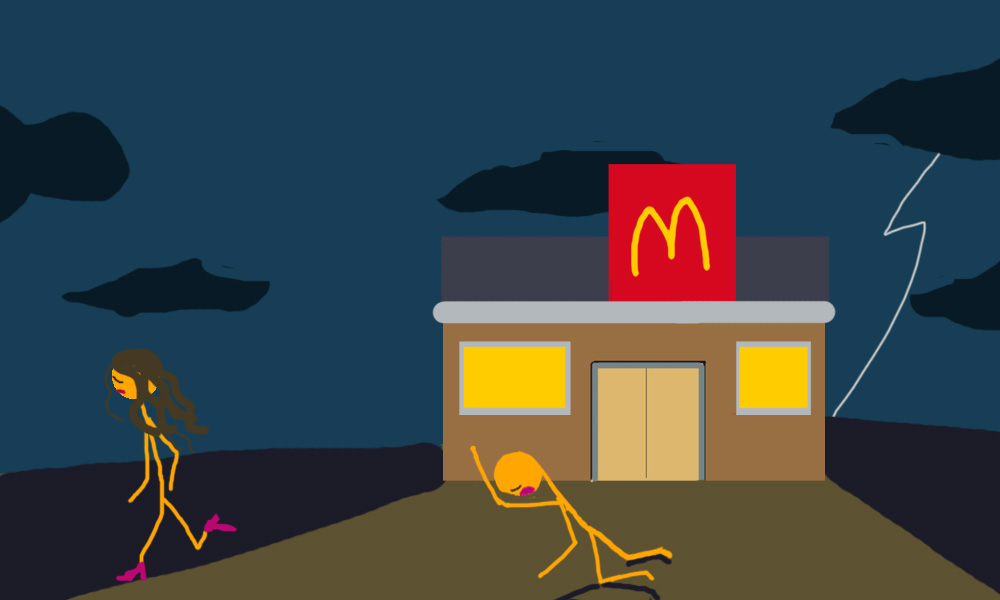
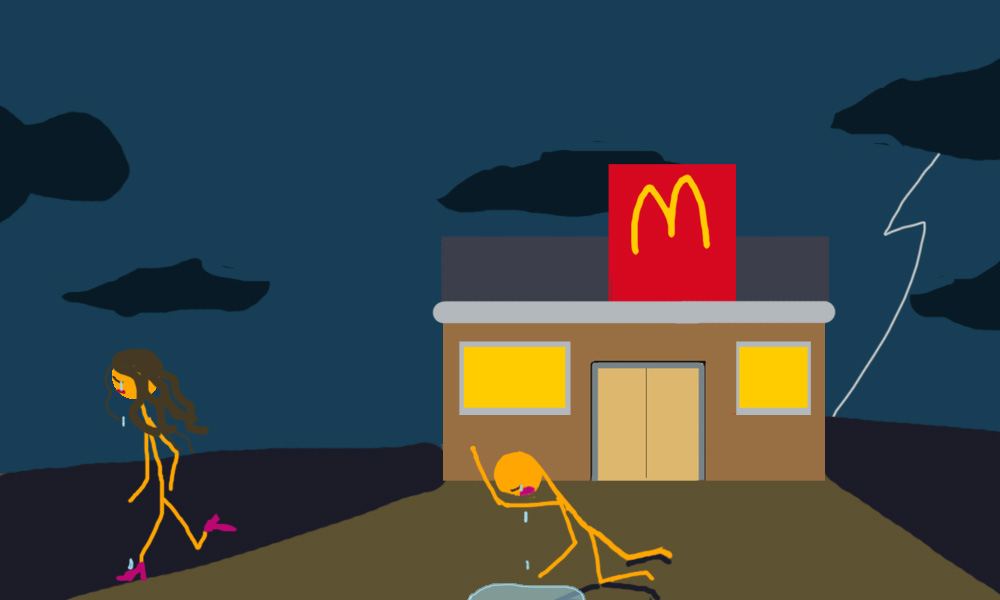
P1:Added in a text scene as a state before the divorce state

Changed region(s): [[0.62, 0.3, 0.713, 0.45], [0.465, 0.96, 0.589, 1.0], [0.124, 0.93, 0.155, 0.96]]

diff --git a/projects/project1/js/script.js b/projects/project1/js/script.js
@@ -5,7 +5,7 @@ let caughtendingImage;
 let trafficfastImage;
 let trafficslowImage;
 let carImage ={
-  x:0,
+  x:50,
   y:300,
   vx:0,
   vy:0,
@@ -144,8 +144,14 @@ function draw() {
   else if(state === `happypoorending`){
     happypoorending();
   }
+  else if(state ===`divorcetext`){
+    divorcetext();
+  }
   else if(state ===`divorce`){
     divorce();
+  }
+  else if(state ===`depression`){
+    depression();
   }
 }
 function title(){
@@ -231,15 +237,15 @@ function lowdebt(){
   image(inloveImage,0,0,1000,600);
   fill(219,73,172);
   textAlign(CENTER,CENTER);
-  textSize(40);
-  text(`Now you're 33,000$ in debt.`, width/2,height/2 - 200);
-  textSize(20);
-  text(`But you know what. You'll freakin' do it again.`, width/2,height/2+50);
-  text(`You areeee my fireeee...my one desireee...`, width/2,height/2+100);
-  textSize(25)
-  text(`Believe when I sayyyy`, width/2,height/2+150);
-  textSize(30)
-  text(`I want it THAT WAYYY`, width/2,height/2+200);
+  textSize(50);
+  text(`Now you're 33,000$ in debt.`, width/2,100);
+  textSize(27);
+  text(`But you know what. You'll freakin' do it again.`, 3*width/4,height/2+50);
+  textSize(22)
+  text(`You areeee my fireeee...my one desireee...`,3*width/4,height/2+100);
+  text(`Believe when I sayyyy`, 3*width/4,height/2+150);
+  textSize(40)
+  text(`I want it THAT WAYYY`, 3*width/4,height/2+200);
   pop();
 }
 function highdebt(){
@@ -290,11 +296,12 @@ function gothome(){
   push();
   background(219,73,172);
   fill(255);
-  textSize(30);
+  textSize(40);
   textAlign(CENTER,CENTER);
-  text(`You got home all excited, ready for tonight`,width/2,100);
+  text(`Got home safely!`,width/2,150);
+  text(`The adrenaline rush kept you vigilant and focused.`,width/2,250);
   textSize(20);
-  text(`Still, a man's gotta do his job. You sat down and do a bit of coding`,width/2,200);
+  text(`Still, a man's gotta do his job. You sit down to work on this bit of coding.`,width/2,350);
   pop();
 }
 
@@ -304,8 +311,9 @@ function gothometired(){
   textSize(25);
   textAlign(CENTER,CENTER);
   text(`You got home tired, mentally drained from the thoughts of your massive debt`,width/2,200);
-  text(`Oh god...You still have work to do.`,width/2,250);
-  text(`You sit down, exhausted, typing random letters just to pass time.`,width/2,300);
+  text(`Well someone's ought to pay the debt.`,width/2,250);
+  text(``,width/2,250);
+  text(`You crashed on the chair, pressing random buttons to pass time.`,width/2,300);
   pop();
 }
 
@@ -324,7 +332,7 @@ function workingtired(){
   push();
   textSize(30);
   textAlign(CENTER,CENTER);
-  text(`3PM.You're soooooooo sleepy `,width/2,400);
+  text(`Soooooooo sleepy `,width/2,400);
   text(`You can feel yourself falling asleep... `,width/2,450);
   pop();
 }
@@ -333,15 +341,19 @@ function sleep(){
 background(0);
 textSize(30);
 textAlign(CENTER,CENTER);
-text(`You slept restlessly...`,width/2,300);
-text(`and wake up to a familiar scream... `,width/2,400);
-text(`YESSSSSSSSSSSSS`,width/2,400);
+text(`You slept restlessly...`,width/2,150);
+text(`and wake up to a familiar scream... `,width/2,200);
+textSize(60)
+text(`YESS. i will i will I WILL AHHHH`,width/2,300);
 
 }
 
 function shesaysyes(){
 push();
 image(shesaysyesImage,0,0,1000,600);
+textSize(30);
+textAlign(CENTER,CENTER);
+text(`she...found the ring`,width/2,450);
 
 pop();
 }
@@ -368,6 +380,22 @@ function askprice(){
   telllie();
 }
 
+function divorcetext(){
+  push();
+  background(214,8,32);
+  textAlign(CENTER,CENTER);
+  fill(255,204,0);
+  textSize(40);
+  text(`She questioned your instant noodle diet`,width/2,150);
+  text(`and McDonald on cheat day...`, width/2, 200);
+  text(`You were broke but you kept it shut`,width/2,250);
+  textSize(70);
+  text(`3 years later`, width/2,350);
+
+
+}
+
+
 function divorce(){
   push();
   image(divorceImage,0,0,1000,600);
@@ -375,12 +403,13 @@ function divorce(){
   textAlign(CENTER,CENTER);
   textSize(40);
   text(`3 years later`,width/3,50);
-  textSize(30);
-  text(`She questioned your instant noodle diet`,width/3,100);
-  text(`and McDonald on a holiday...`, width/3, 150);
   textSize(40);
   text(`She left you heartbroken`, width/3,200);
   pop();
+}
+
+function depression(){
+  //s
 }
 
 function avariceending (){
@@ -428,9 +457,9 @@ function runawayending(){
   textAlign(CENTER,CENTER);
   text(`The night is still YOUNG`,width/2,75);
   textSize(50)
-  text(`There's more fishes in the sea`,width/2,140)
-  textSize(20)
-  text(`You don't deserve her anyway. *******`,width/2,180)
+  text(`Plenty of fish in the sea`,width/2,140)
+  textSize(30)
+  text(`And you don't deserve her anyway`,width/2,180)
   pop();
 }
 
@@ -537,7 +566,7 @@ function telltruth(){
 
 function telllie (){
   if(user.x > 3*width/4 -175 && user.x < 3*width/4 +175 && user.y < 500+40 && user.y >500-40){
-    state = `divorce`;
+    state = `divorcetext`;
   }
 }
 
@@ -592,9 +621,6 @@ function cardisplays(){
 }
 
 
-
-
-
 function keyPressed(){
   if (state === `title`){
     state = `context`;
@@ -623,4 +649,10 @@ function keyPressed(){
   else if (state === `shesaysyes`){
     state = `askprice`;
   }
+  else if (state === `divorcetext`){
+    state = `divorce`;
+}
+  else if (state === `divorce`){
+    state = `depression`;
+}
 }
